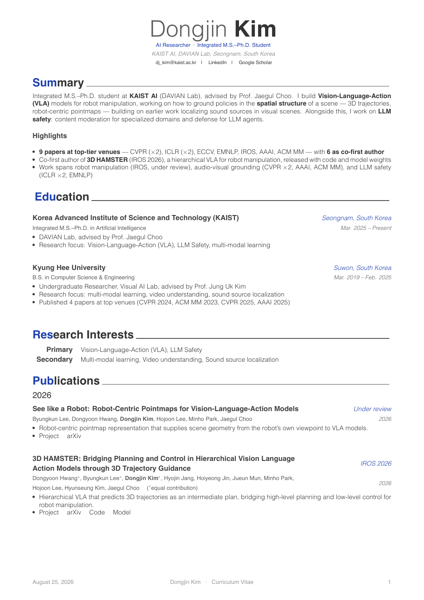
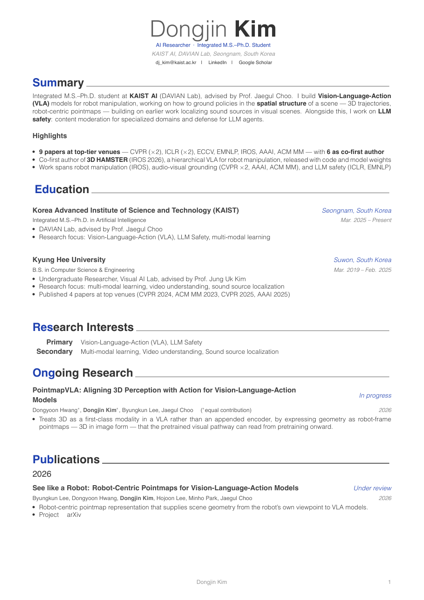
feat: add PointmapVLA as ongoing research and simplify the CV footer
Place an Ongoing Research section ahead of Publications, so work in
progress is visible before the published list. PointmapVLA is described by
the design stance it takes — 3D as a first-class modality read by the
pretrained visual pathway, rather than an encoder appended afterwards —
instead of the implementation, since the results are not yet settled.

Drop \today from the footer: the PDF is published on the site, so a
compile-time date only makes it look stale months later. The running
"Curriculum Vitae" label goes too; the name and page number remain, which
is what is actually useful if printed pages get separated.

diff --git a/cv/sections/ongoing.tex b/cv/sections/ongoing.tex
@@ -1,0 +1,19 @@
+%==============================================================================
+%  ONGOING RESEARCH
+%==============================================================================
+\cvsection{Ongoing Research}
+
+\begin{cventries}
+
+  \cventry
+    {Dongyoon Hwang$^*$, \textbf{Dongjin Kim}$^*$, Byungkun Lee, Jaegul Choo \quad ($^*$equal contribution)}
+    {PointmapVLA: Aligning 3D Perception with Action for Vision-Language-Action Models}
+    {In progress}
+    {2026}
+    {%
+      \begin{cvitems}
+        \item Treats 3D as a first-class modality in a VLA rather than an appended encoder, by expressing geometry as robot-frame pointmaps --- 3D in image form --- that the pretrained visual pathway can read from pretraining onward.
+      \end{cvitems}
+    }
+
+\end{cventries}

diff --git a/cv/awesome.tex b/cv/awesome.tex
@@ -25,8 +25,8 @@
 \makecvheader[C]
 
 \makecvfooter
-  {\today}
-  {Dongjin Kim~~~·~~~Curriculum Vitae}
+  {}
+  {Dongjin Kim}
   {\thepage}
 
 %==============================================================================
@@ -35,6 +35,7 @@
 \input{sections/summary}
 \input{sections/education}
 \input{sections/research_interests}
+\input{sections/ongoing}
 \input{sections/publications}
 \input{sections/experience}
 
